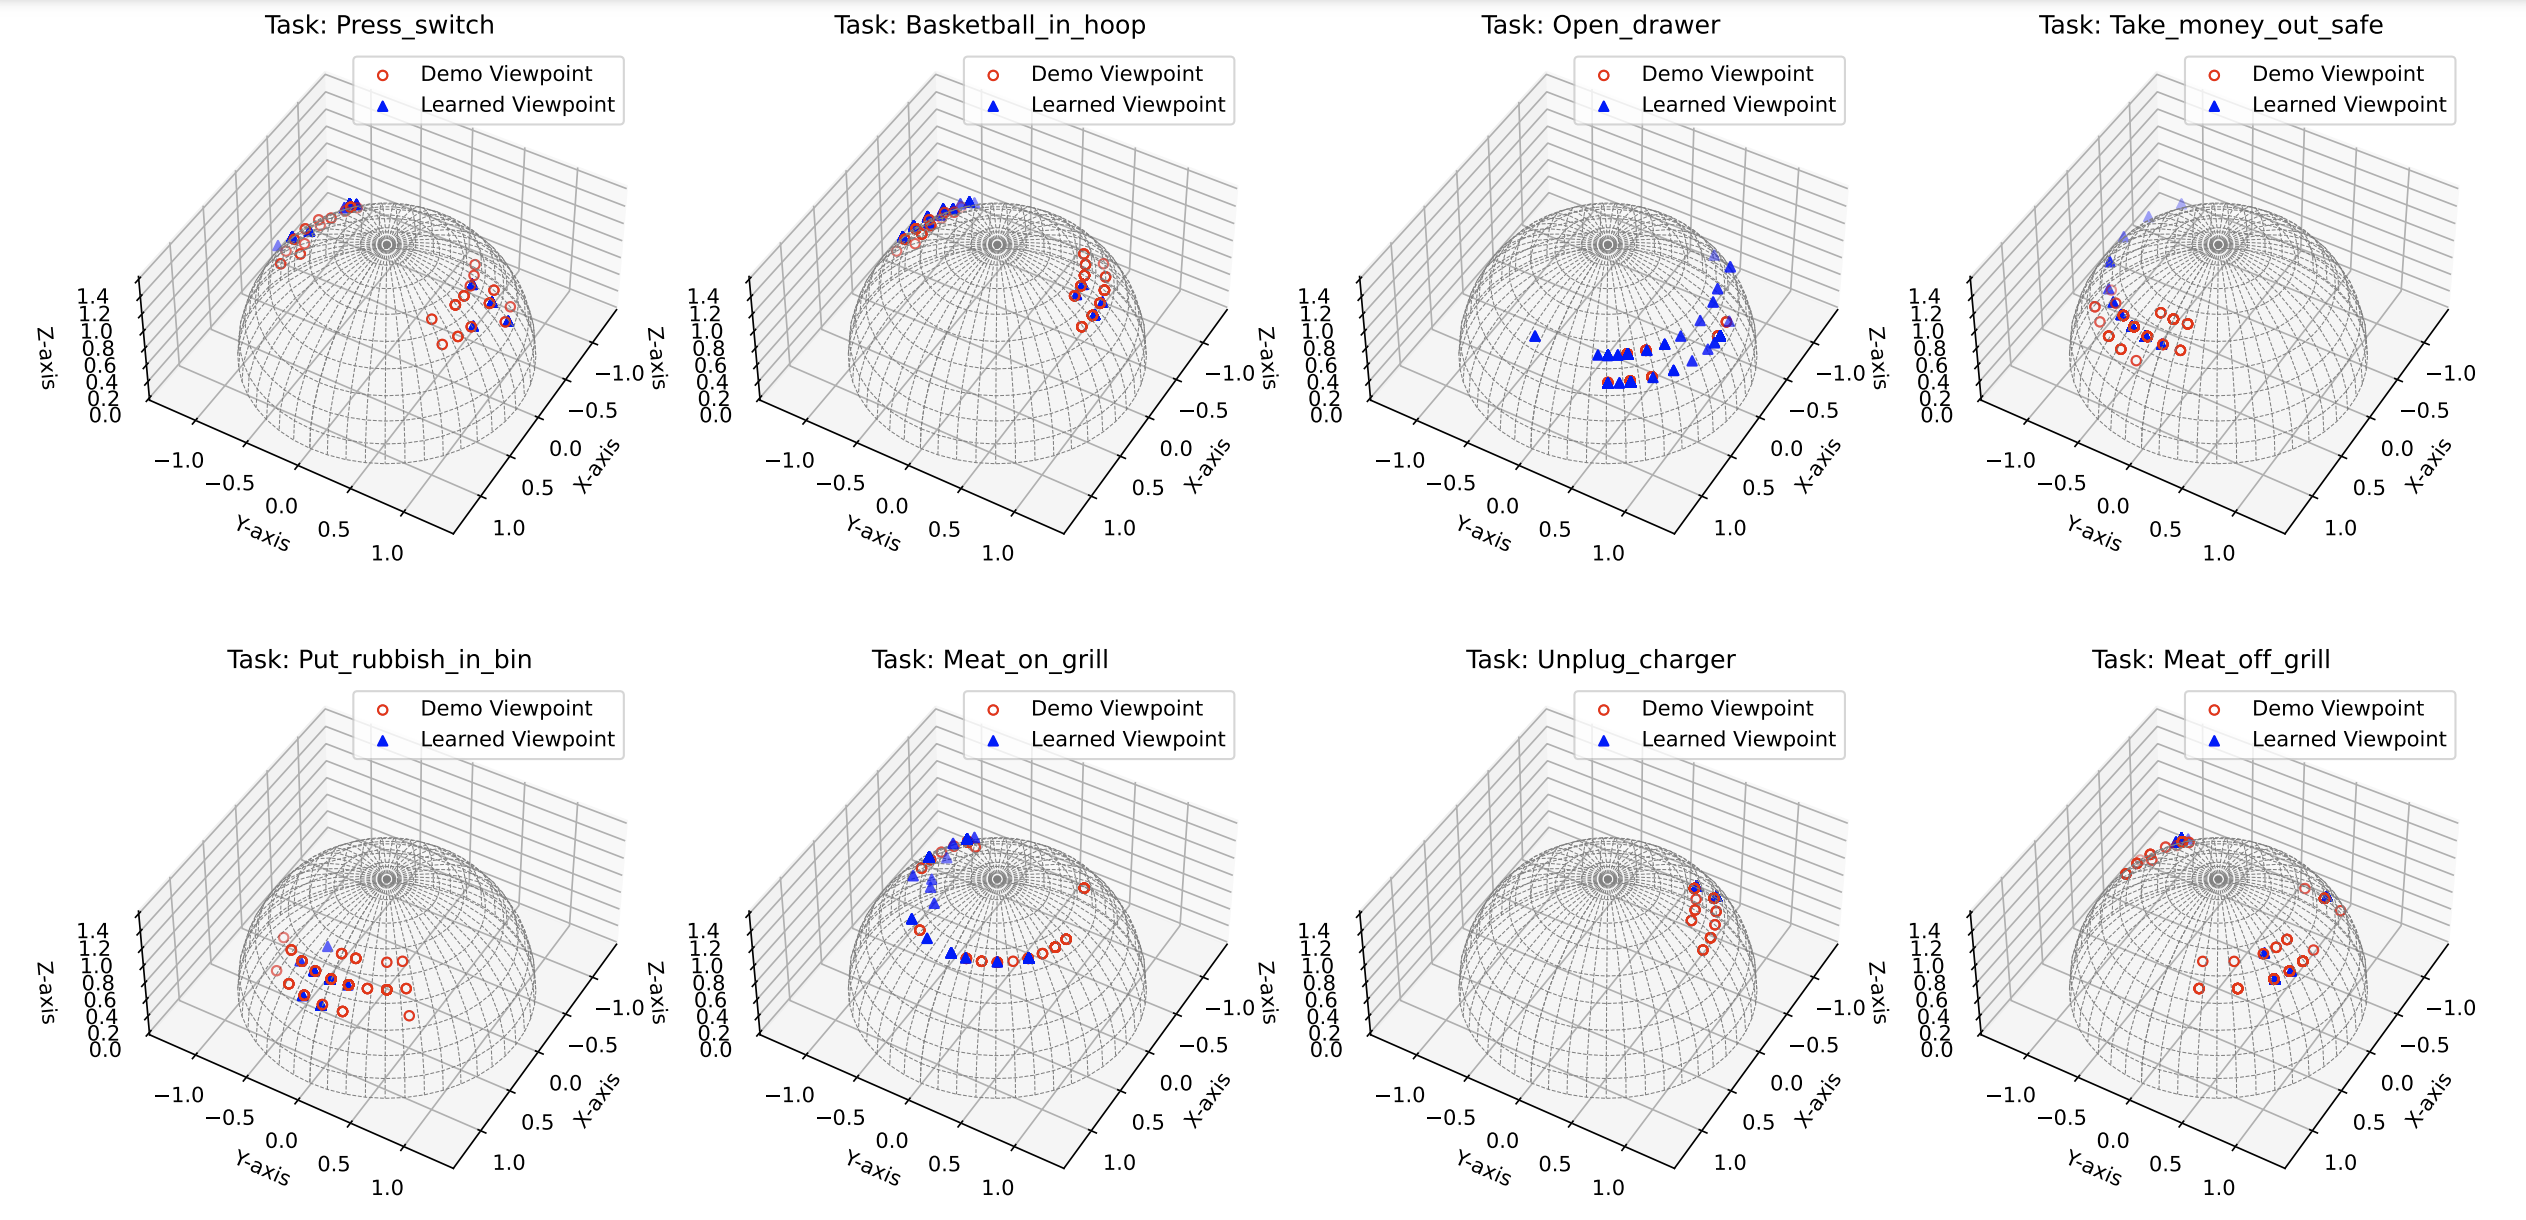
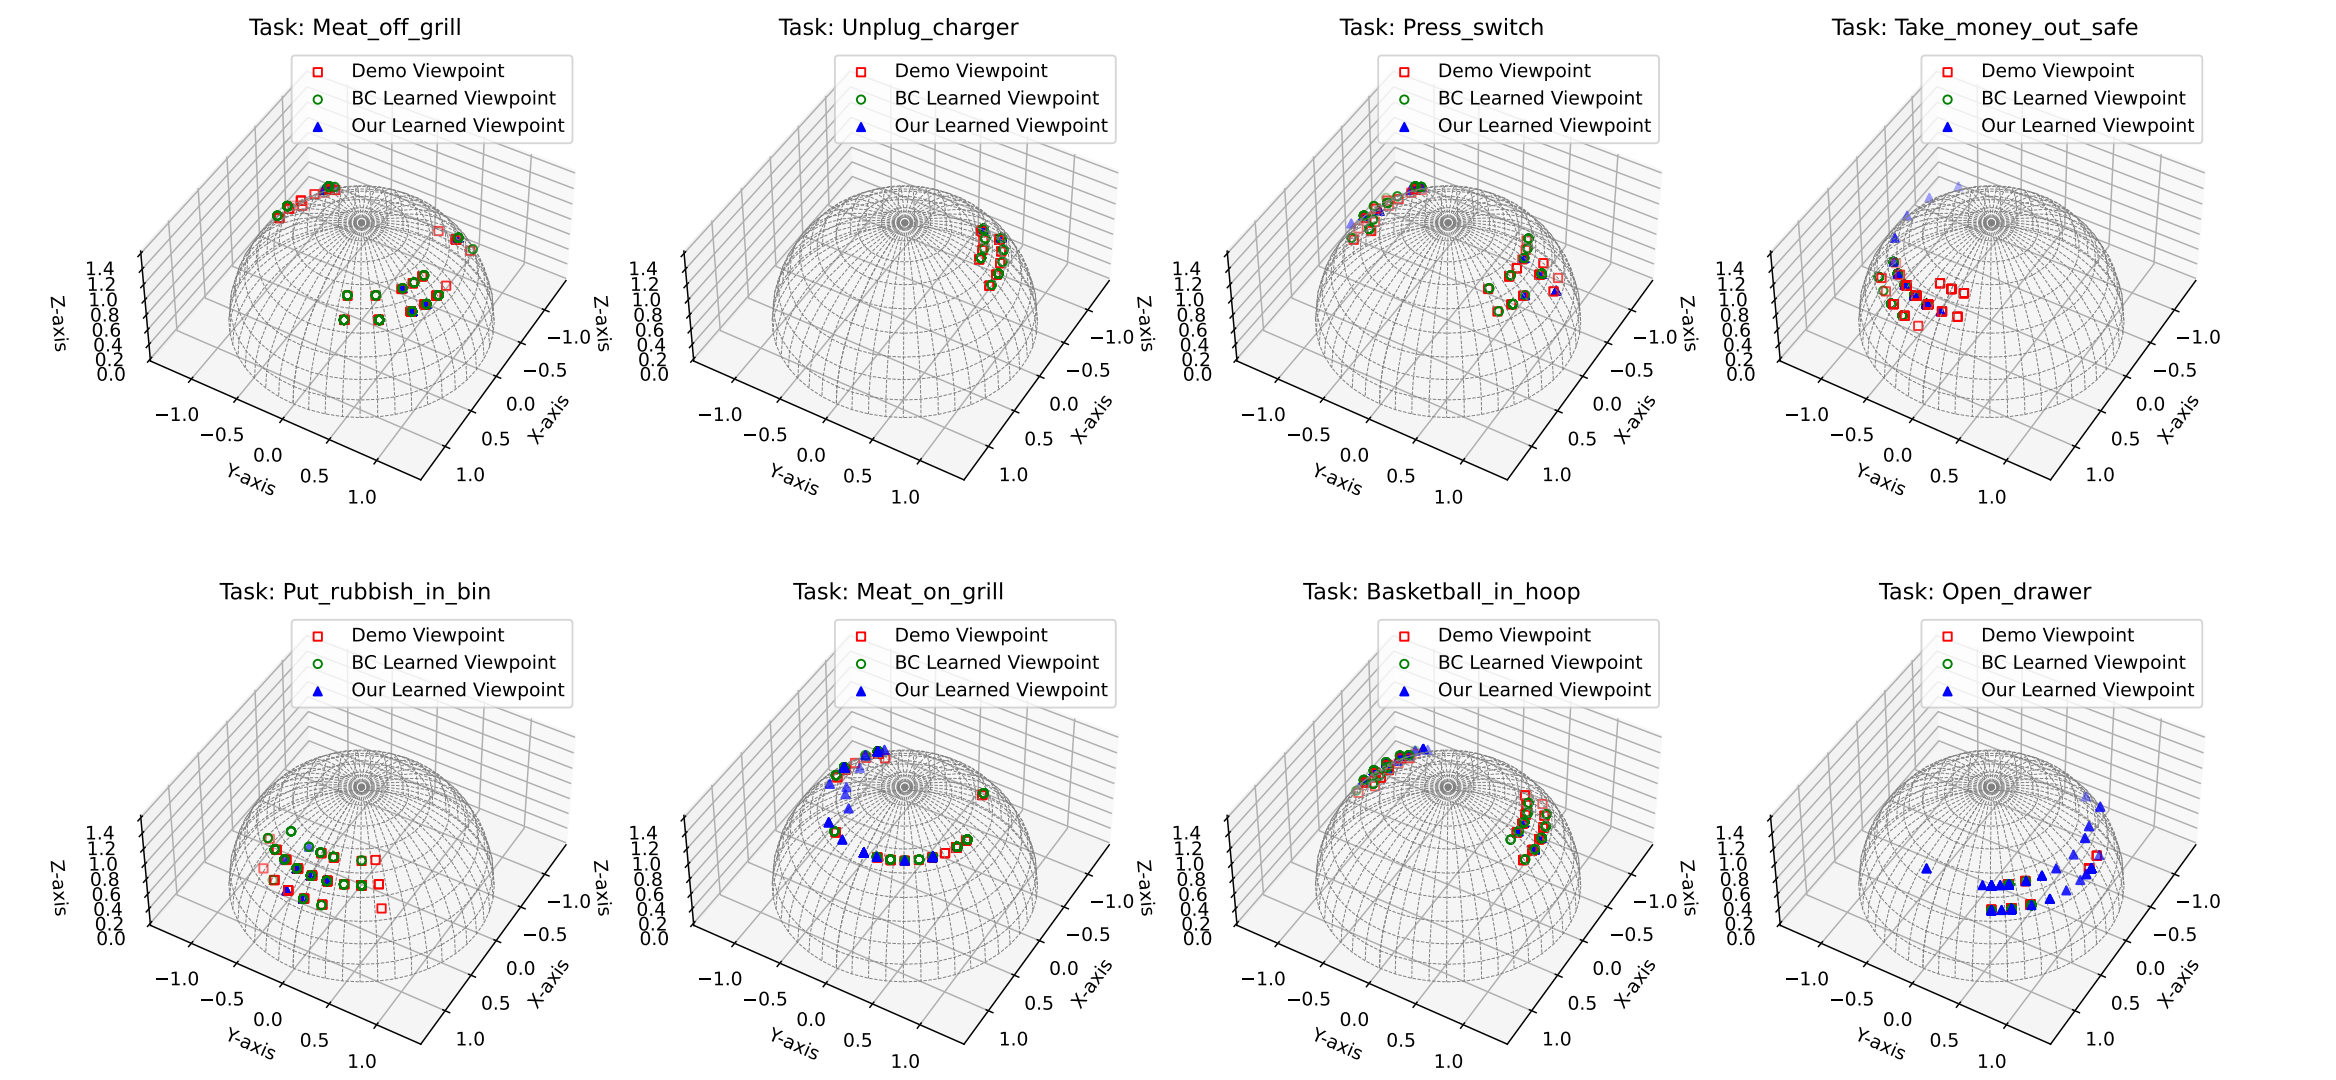
updata fig

Changed region(s): [[0.0, 0.5194, 0.9688, 0.9778], [0.0, 0.0, 0.9688, 0.4583]]

diff --git a/index.html b/index.html
@@ -138,9 +138,6 @@
                         <p>
                             In this paper, we investigate the problem of robotic manipulation under limited visual observation and  propose a task-driven asynchronous active vision-action model. Our model serially connects a camera Next-Best-View(NBV) policy with a gripper Next-Best-Pose(NBP) policy, and trains them in a sensor-motor coordination framework using few-shot reinforcement learning. This approach enables the agent to reposition a third-person camera to actively observe the environment based on the task goal, and subsequently determine the appropriate manipulation actions.
                         </p>
-                        <p>
-                            We trained and evaluated our model on 8 viewpoint-constrained tasks in RLBench. The results demonstrate that our model consistently outperforms baseline algorithms, showcasing its effectiveness in handling visual constraints in manipulation tasks. 
-                        </p>
                     </div>
                 </div>
             </div>
@@ -152,10 +149,10 @@
                     <h2 class="title is-3">Method</h2>
                     <div class="content has-text-justified">
                         <p>
-                            We introduce a task-driven asynchronous active vision-action model for robotic manipulation in scenarios with limited observation. The model uses a dual-agent structure, with a Next-Best-View (NBV) agent selecting optimal viewpoints and a Next-Best-Pose (NBP) agent determining gripper actions based on those viewpoints. It alternates between sensor and motor actions to actively interact with the environment and achieve task goals.
-                        </p>
-                        <p>
-                            The model is trained using few-shot reinforcement learning, with viewpoint-aware demo augmentation to maximize the use of limited demonstrations. A viewpoint-centric voxel alignment technique is employed to reduce observation space complexity, and task-agnostic auxiliary rewards help stabilize training by promoting effective interactions and informative viewpoint selection.
+                            Our model uses a dual-agent structure, with a Next-Best-View (NBV) agent selecting 
+                            optimal viewpoints and a Next-Best-Pose (NBP) agent determining gripper actions based on 
+                            those viewpoints. It alternates between sensor and motor actions to actively interact with 
+                            the environment and achieve task goals.
                         </p>
                     </div>
                     <div class="content" style="margin-top: 30px;">
@@ -174,15 +171,51 @@
             </div>
             <div class="content has-text-justified">
                 <p>
-                    We evaluated our model on the RLBench platform, focusing on tasks with high occlusion and dynamic viewpoints. To measure occlusion, we introduced the Task Occlusion Rate (TOR). Our model was compared against baseline models, including C2FARM and Behavior Cloning, under both fixed and active camera setups.
+                    We trained and evaluated our model on RLBench, a widely used public benchmark for 
+                    robotic manipulation. We selected 8 tasks from RLBench following two criteria: (1)
+                     each task must include at least one RLBench default viewpoint with significant visual
+                      occlusion, and (2) no single fixed or wrist-mounted camera provides consistently 
+                      low occlusion across the selected tasks.  We compared our model against three baseline categories:                  
                 </p>
-                <p>
-                    Our model achieved the highest success rates across all tasks and demonstrated shorter episode lengths, indicating improved task efficiency compared to the baselines.
-                </p>
+
+                  <ol>
+                    <li>
+                      Visual manipulation models that utilize static third-person and wrist-mounted cameras, active third-person camera-based models.
+                    </li>
+                    <li>
+                      Behavior Cloning (BC) to test its ability to learn new sensor-motor skills beyond 
+                      demonstration imitation. Additionally, we included a Random Viewpoint model, 
+                      which shares the same architecture as ours but with the NBV policy network disabled 
+                      (learning rate set to zero). This setup assesses the performance gain from active viewpoint 
+                      adjustment versus random selection.
+                    </li>
+                    <li>
+                      Oracle, which utilizes a fully fused image from all default camera views in RLBench.
+                    </li>
+                  </ol>
+                  <p>
+                    For the first category, we compared our model to C2FARM (C2F) using static 
+                    <em>front</em>, <em>overhead</em>, <em>wrist</em>, and <em>front + wrist (f+w)</em> camera settings 
+                    to evaluate the effectiveness of our active vision-action model in handling tasks with limited observability. For the Oracle baseline, we disabled the NBV viewpoint selection ability since full camera views were always accessible.
+                    The statistical results on the selected tasks are shown in the table below.
+                  </p>
             </div>
             <div class="content" style="margin-top: 30px;">
                 <img src="./static/images/table.png" alt="" srcset="" style="max-width: 100%; height: auto;"/>
             </div>
+
+            <div class="content has-text-justified">
+                <p>
+                    The figure below illustrates the learned camera viewpoints for various tasks, comparing demo viewpoints (red squares),
+                    Behavior Cloning (BC) learned viewpoints (green circles), and our model's learned viewpoints (blue triangles). 
+                    Our model demonstrates more task-relevant and adaptive viewpoint distributions: tasks like basketball_in_hoop and put_rubbish_in_bin exhibit focused clustering, 
+                    while tasks like meat_on_grill and open_drawer showcase broader coverage, 
+                    reflecting enhanced generalization through interaction-driven learning. This highlights our model's ability to learn beyond imitation, 
+                    achieving higher task performance compared to BC.
+                </p>
+            </div>
+
+
             <div class="content" style="margin-top: 30px;">
                 <img src="./static/images/combined_viewpoints.png" alt="" srcset="" style="max-width: 100%; height: auto;" />
             </div>
